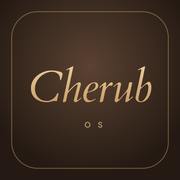
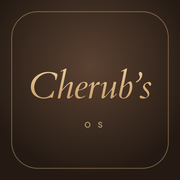
Rename to Cherub's OS everywhere
Claude-Session: https://claude.ai/code/session_01Ks85Pu7Yg1hps6Xsp772Hh

Changed region(s): [[0.1667, 0.3611, 0.8611, 0.5833]]

diff --git a/index.html b/index.html
@@ -9,7 +9,7 @@
 <meta name="apple-mobile-web-app-capable" content="yes">
 <meta name="mobile-web-app-capable" content="yes">
 <meta name="apple-mobile-web-app-status-bar-style" content="default">
-<meta name="apple-mobile-web-app-title" content="Cherub">
+<meta name="apple-mobile-web-app-title" content="Cherub’s OS">
 <link rel="manifest" href="manifest.json">
 <link rel="icon" type="image/png" href="icon-192.png">
 <link rel="apple-touch-icon" id="touchIcon" href="apple-touch-icon.png">
@@ -489,7 +489,7 @@ function render(){
  Store.needRender=false;applyTheme();
  const app=$('#app');
  if(Store.mode==='signin'){app.innerHTML=signinHtml();return}
- if(!Store.ready){app.innerHTML='<div class="splash"><span class="wordmark big">Cherub<small>OS</small></span></div>';return}
+ if(!Store.ready){app.innerHTML='<div class="splash"><span class="wordmark big">Cherub’s<small>OS</small></span></div>';return}
  const y=window.scrollY;
  app.innerHTML=`<div class="app">${sidebar()}<main>${Store.note?`<div class="note-bar">${esc(Store.note)}</div>`:''}${VIEWS[ui.route]()}<div style="height:70px"></div></main>${bottomNav()}<button class="mic-fab" data-act="voice" aria-label="Speak to Cherub" title="Speak to Cherub">${ic('mic')}</button></div>`;
  window.scrollTo(0,y);
@@ -504,7 +504,7 @@ function counts(){const t=today();return{sess:sessionsOn(t).filter(x=>stOf(x)===
 function sidebar(){
  const c=counts();
  const L=(r,i,l,n)=>`<a class="nav ${ui.route===r?'on':''}" href="#${r}">${ic(i)}${l}${n?`<span class="cnt">${n}</span>`:''}</a>`;
- return`<aside class="side"><div class="brand"><span class="wordmark">Cherub<small>OS</small></span></div>
+ return`<aside class="side"><div class="brand"><span class="wordmark">Cherub’s<small>OS</small></span></div>
  <button class="nav" data-act="search">${ic('search')}Search</button>
  ${L('home','home','Home')}${L('clients','users','Clients',c.sess)}${L('sheet','page','Sheet')}<div class="sep"></div>
  ${L('tasks','task','Tasks',c.tasks)}${L('reminders','bell','Reminders',c.rem)}${L('calendar','cal','Schedule')}
@@ -547,7 +547,7 @@ VIEWS.home=()=>{const p=prefs(),t=today(),h=new Date().getHours(),greet=h<5?'Goo
  const ub=allBills().filter(b=>!b.paid),ubAmt=ub.reduce((a,b)=>a+b.amount,0);
  const mName=parseD(t).toLocaleDateString('en-IN',{month:'long'});
  const reorder=ui.reorder&&cs.length>1;
- return`<div class="mbrand"><span class="wordmark">Cherub<small>OS</small></span><button class="icon-btn" data-act="themeToggle" aria-label="Day / night">${ic(document.documentElement.dataset.theme==='night'?'sun':'moon')}</button></div><header class="top"><div><div class="eyebrow">${fmtLongDate(t)}</div><h1 class="hello">${greet}, ${esc(p.name||'Cherub')}</h1>${live||done?`<div class="today-pill">Today · ${done}/${live} sessions done</div>`:''}</div><div style="display:flex;gap:8px"><button class="icon-btn lg dsk" data-act="themeToggle" title="Day / night" aria-label="Day / night">${ic(document.documentElement.dataset.theme==='night'?'sun':'moon')}</button><button class="icon-btn lg" data-act="checkin" title="Check in now" aria-label="Check in now">${ic('bell')}</button><button class="icon-btn lg" data-act="search" aria-label="Search">${ic('search')}</button></div></header>
+ return`<div class="mbrand"><span class="wordmark">Cherub’s<small>OS</small></span><button class="icon-btn" data-act="themeToggle" aria-label="Day / night">${ic(document.documentElement.dataset.theme==='night'?'sun':'moon')}</button></div><header class="top"><div><div class="eyebrow">${fmtLongDate(t)}</div><h1 class="hello">${greet}, ${esc(p.name||'Cherub')}</h1>${live||done?`<div class="today-pill">Today · ${done}/${live} sessions done</div>`:''}</div><div style="display:flex;gap:8px"><button class="icon-btn lg dsk" data-act="themeToggle" title="Day / night" aria-label="Day / night">${ic(document.documentElement.dataset.theme==='night'?'sun':'moon')}</button><button class="icon-btn lg" data-act="checkin" title="Check in now" aria-label="Check in now">${ic('bell')}</button><button class="icon-btn lg" data-act="search" aria-label="Search">${ic('search')}</button></div></header>
  <div class="earn"><section class="card ecard"><div class="eyebrow">This week · ${fmtRange(mon,sun)}</div><div class="big">${money(W.amt)}</div><div><b>${W.n}</b> <span class="muted">session${W.n===1?'':'s'} done</span></div><div class="sub"><span>Received <b class="grn">${money(W.rec)}</b></span><span>Unpaid bills <b class="${ubAmt?'red':''}">${money(ubAmt)}</b></span></div></section>
  <section class="card ecard"><div class="eyebrow">${mName}</div><div class="big">${money(M.amt)}</div><div><b>${M.n}</b> <span class="muted">session${M.n===1?'':'s'} done</span></div><div class="sub"><span>Received <b class="grn">${money(M.rec)}</b></span>${(()=>{const u=allBills().filter(b=>!b.paid&&b.from.slice(0,7)===ym).reduce((x,b)=>x+b.amount,0);return`<span>Unpaid <b class="${u?'red':''}">${money(u)}</b></span>`})()}</div></section></div>
  ${cs.length?`<section class="card etable"><div class="er h"><span>Client</span><span>This week</span><span>${mName.slice(0,3)}</span><span class="r">Due</span></div>${cs.map(c=>{const w=W.per[c.id]||{n:0,a:0},m=M.per[c.id]||{n:0,a:0},due=clientMoney(c).due;
@@ -1052,12 +1052,12 @@ async function makeIcon(){const img=$('#appIcon');if(!img||img.dataset.done)retu
  const g=x.createRadialGradient(512,380,60,512,512,760);g.addColorStop(0,'#5b4232');g.addColorStop(1,'#241a13');x.fillStyle=g;x.fillRect(0,0,1024,1024);
  x.strokeStyle='rgba(205,168,112,.45)';x.lineWidth=5;x.beginPath();if(x.roundRect)x.roundRect(64,64,896,896,150);else x.rect(64,64,896,896);x.stroke();
  const tg=x.createLinearGradient(0,360,0,640);tg.addColorStop(0,'#efd6a6');tg.addColorStop(1,'#bd8c55');x.fillStyle=tg;x.textAlign='center';x.textBaseline='alphabetic';
- x.font='260px "Pinyon Script", cursive';x.fillText('Cherub',512,590);
+ x.font='225px "Pinyon Script", cursive';x.fillText('Cherub’s',512,585);
  x.fillStyle='rgba(225,195,145,.7)';x.font='600 46px Inter, sans-serif';x.fillText('O   S',512,720);
  const url=c.toDataURL('image/png');img.src=url}
 // ---------- sign in ----------
 const AUTH_MSG={'auth/invalid-email':'That email doesn’t look right.','auth/missing-password':'Enter your password.','auth/weak-password':'Use at least 6 characters for the password.','auth/email-already-in-use':'That email already has an account — tap Sign in.','auth/invalid-credential':'Email or password is wrong.','auth/wrong-password':'Email or password is wrong.','auth/user-not-found':'No account with that email — tap Create account.','auth/too-many-requests':'Too many tries — wait a minute and try again.','auth/network-request-failed':'No internet connection.'};
-function signinHtml(){const m=ui.authMode||'in';return`<div class="signin"><div class="card sin"><span class="wordmark big">Cherub<small>OS</small></span>
+function signinHtml(){const m=ui.authMode||'in';return`<div class="signin"><div class="card sin"><span class="wordmark big">Cherub’s<small>OS</small></span>
  <div class="muted" style="margin:6px 0 18px">${m==='up'?'Create your private account':m==='reset'?'Reset your password':'Sign in to your private space'}</div>
  <form id="authForm" class="sinf"><input type="email" id="aEmail" placeholder="Email" autocomplete="email" required value="${esc(ui.authEmail||'')}">
  ${m==='reset'?'':`<input type="password" id="aPass" placeholder="Password${m==='up'?' (6+ characters)':''}" autocomplete="${m==='up'?'new-password':'current-password'}" required>`}
@@ -1268,7 +1268,7 @@ setInterval(maybePrompt,30000);
 
 let tt;function toast(m){const t=$('#toast');t.textContent=m;t.classList.add('show');clearTimeout(tt);tt=setTimeout(()=>t.classList.remove('show'),2200)}
 window.addEventListener('pagehide',()=>{if(Store.mode==='local'){clearTimeout(Store.timers._ls);saveLocal()}});
-async function liveTouchIcon(){try{await document.fonts.load('200px "Pinyon Script"');if(!document.fonts.check('200px "Pinyon Script"'))return;const c=document.createElement('canvas');c.width=c.height=180;const x=c.getContext('2d');const g=x.createRadialGradient(90,67,10,90,90,134);g.addColorStop(0,'#5b4232');g.addColorStop(1,'#241a13');x.fillStyle=g;x.fillRect(0,0,180,180);x.strokeStyle='rgba(205,168,112,.45)';x.lineWidth=1.2;x.beginPath();if(x.roundRect)x.roundRect(11,11,158,158,26);else x.rect(11,11,158,158);x.stroke();const tg=x.createLinearGradient(0,63,0,113);tg.addColorStop(0,'#efd6a6');tg.addColorStop(1,'#bd8c55');x.fillStyle=tg;x.textAlign='center';x.font='46px "Pinyon Script", cursive';x.fillText('Cherub',90,104);x.fillStyle='rgba(225,195,145,.7)';x.font='600 8px Inter, sans-serif';x.fillText('O   S',90,127);const l=$('#touchIcon');if(l)l.href=c.toDataURL('image/png')}catch(e){}}
+async function liveTouchIcon(){try{await document.fonts.load('200px "Pinyon Script"');if(!document.fonts.check('200px "Pinyon Script"'))return;const c=document.createElement('canvas');c.width=c.height=180;const x=c.getContext('2d');const g=x.createRadialGradient(90,67,10,90,90,134);g.addColorStop(0,'#5b4232');g.addColorStop(1,'#241a13');x.fillStyle=g;x.fillRect(0,0,180,180);x.strokeStyle='rgba(205,168,112,.45)';x.lineWidth=1.2;x.beginPath();if(x.roundRect)x.roundRect(11,11,158,158,26);else x.rect(11,11,158,158);x.stroke();const tg=x.createLinearGradient(0,63,0,113);tg.addColorStop(0,'#efd6a6');tg.addColorStop(1,'#bd8c55');x.fillStyle=tg;x.textAlign='center';x.font='40px "Pinyon Script", cursive';x.fillText('Cherub’s',90,103);x.fillStyle='rgba(225,195,145,.7)';x.font='600 8px Inter, sans-serif';x.fillText('O   S',90,127);const l=$('#touchIcon');if(l)l.href=c.toDataURL('image/png')}catch(e){}}
 readHash();init();liveTouchIcon();
 </script>
 </body>

diff --git a/sw.js b/sw.js
@@ -13,7 +13,7 @@ firebase.initializeApp({
 // Notifications sent with a "notification" payload are shown automatically.
 firebase.messaging();
 
-const CACHE = 'cherub-v1';
+const CACHE = 'cherub-v2';
 const FB = 'https://www.gstatic.com/firebasejs/10.12.2/';
 const SHELL = ['./', 'index.html', 'manifest.json', 'icon-192.png', 'icon-512.png', 'apple-touch-icon.png',
   FB + 'firebase-app-compat.js', FB + 'firebase-auth-compat.js', FB + 'firebase-firestore-compat.js', FB + 'firebase-messaging-compat.js'];
